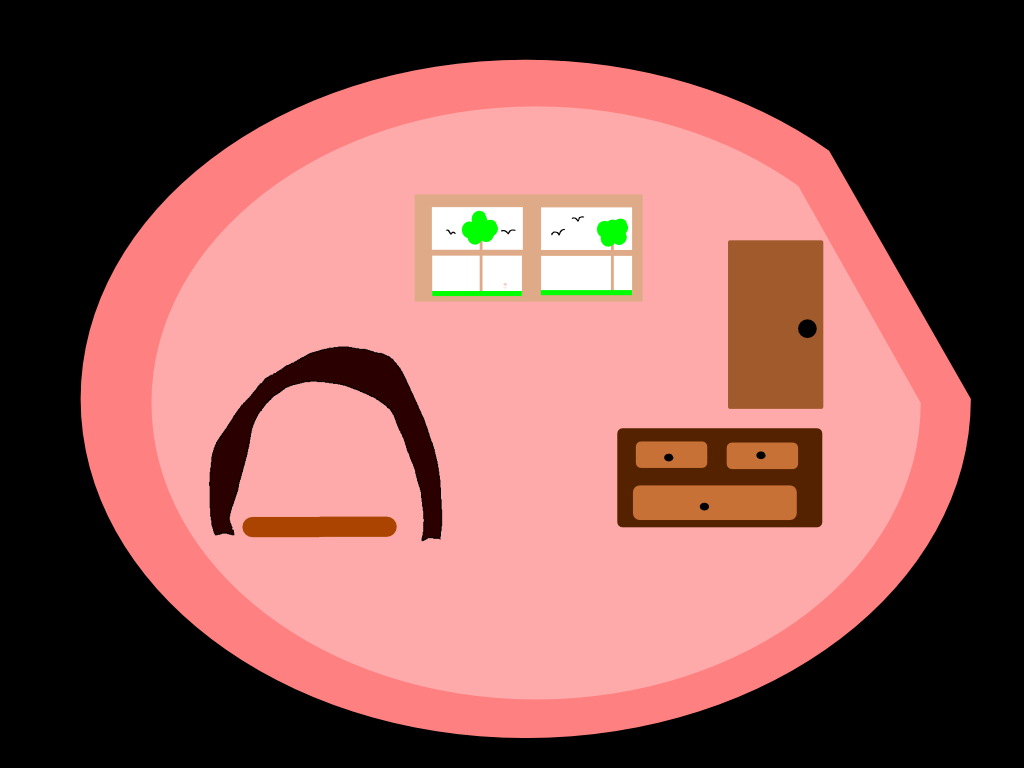
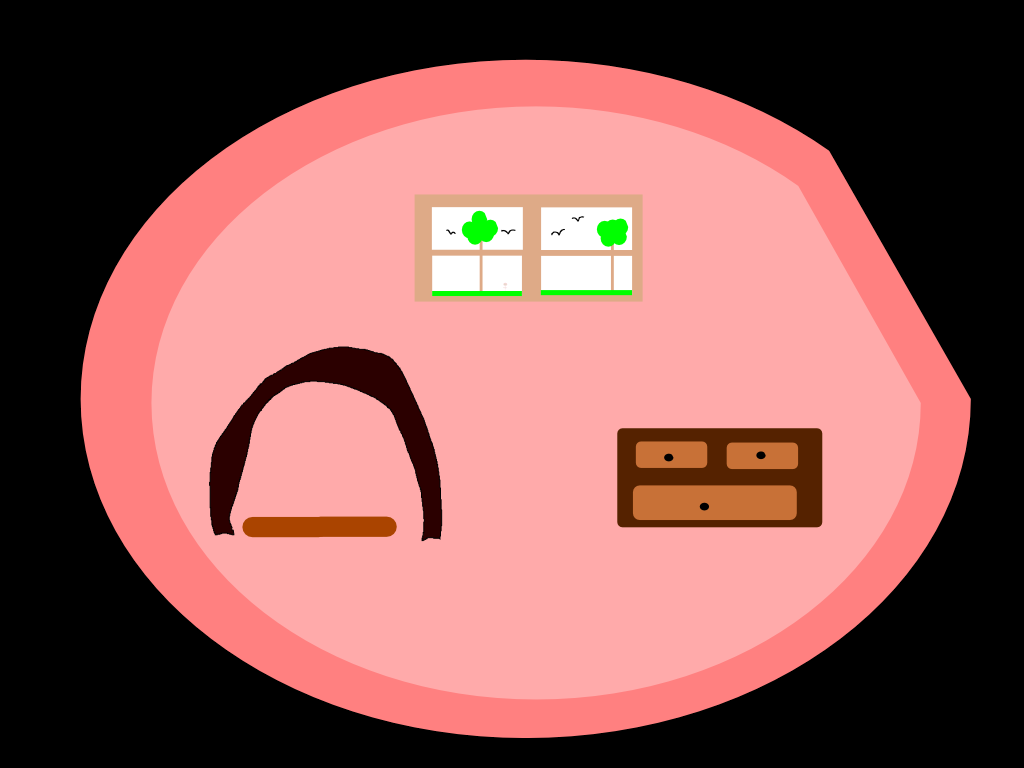
Fixed various things

Changed region(s): [[0.6875, 0.3125, 0.8125, 0.5312]]

diff --git a/core/src/ml/derek/ggj2015/collections/items/Door.java b/core/src/ml/derek/ggj2015/collections/items/Door.java
@@ -1,5 +1,6 @@
 package ml.derek.ggj2015.collections.items;
 
+import com.badlogic.gdx.Gdx;
 import com.badlogic.gdx.graphics.Texture;
 import com.badlogic.gdx.graphics.g2d.TextureRegion;
 import com.badlogic.gdx.utils.Array;
@@ -11,33 +12,38 @@ import ml.derek.ggj2015.logic.Room;
  * Copyright © 2015 Derek Sewell.
  * All rights reserved.
  */
-public class Key extends Item
+public class Door extends Item
 {
-	public Key()
+	private boolean open = false;
+
+	public Door()
 	{
-		super(new TextureRegion(new Texture("items/key.png")));
+		super(new TextureRegion(new Texture("items/door.png")));
 	}
 
 	@Override
 	public void onClick(Room room, Array<Item> inventory)
 	{
 		super.onClick(room, inventory);
-		room.getItems().remove(this);
-		//inventory.add(this);
-		room.carrying = this;
+		if(open)
+		{
+			room.finish();
+		}
 	}
 
 	@Override
 	public void onUse(Item item, Room room, Array<Item> inventory)
 	{
-
+		if(item instanceof Key)
+		{
+			//Open the door
+			Gdx.app.log("input", "attempted door use");
+			open = true;
+			setTexture(new TextureRegion(new Texture("items/door-open.png")));
+			item.destory(room, inventory);
+		}
 	}
 
-	public void onInventoryClick(Room room, Array<Item> inventory)
-	{
-		room.carrying = this;
-		inventory.removeValue(this, false);
-	}
 }
 
 

diff --git a/core/src/ml/derek/ggj2015/InputManager.java b/core/src/ml/derek/ggj2015/InputManager.java
@@ -31,6 +31,13 @@ public class InputManager
 		{
 			Vector2 mousePos = Utils.unproject(Gdx.input.getX(), Gdx.input.getY(), camera);
 
+			//Check to see if the user is placing an item back in the inventory
+			if(mousePos.x > 1024 && room.carrying != null)
+			{
+				inventory.add(room.carrying);
+				room.carrying = null;
+			}
+
 			//Go through items in the room
 			for(int x = room.getItems().size - 1; x >= 0; x--)
 			{
@@ -42,6 +49,11 @@ public class InputManager
 				{
 					Gdx.app.log("input", "Item clicked");
 					item.onClick(room, inventory);
+
+					if(room.carrying != null)
+					{
+						item.onUse(room.carrying, room, inventory);
+					}
 
 					//Can only click once per frame
 					return;
@@ -62,12 +74,7 @@ public class InputManager
 				}
 			}
 
-			//Check to see if the user is placing an item back in the inventory
-			if(mousePos.x > 1024 && room.carrying != null)
-			{
-				inventory.add(room.carrying);
-				room.carrying = null;
-			}
+
 		}
 	}
 }

diff --git a/core/src/ml/derek/ggj2015/collections/rooms/Womb.java b/core/src/ml/derek/ggj2015/collections/rooms/Womb.java
@@ -4,7 +4,9 @@ import com.badlogic.gdx.graphics.Texture;
 import com.badlogic.gdx.graphics.g2d.TextureRegion;
 import com.badlogic.gdx.math.Vector2;
 import ml.derek.ggj2015.RenderManager;
+import ml.derek.ggj2015.collections.items.Door;
 import ml.derek.ggj2015.collections.items.Fire;
+import ml.derek.ggj2015.collections.items.FireExtinguisher;
 import ml.derek.ggj2015.collections.items.Key;
 import ml.derek.ggj2015.logic.Room;
 
@@ -21,6 +23,8 @@ public class Womb extends Room
 		float y = RenderManager.HEIGHT - 521;
 		items.put(new Key(), new Vector2(251, y));
 		items.put(new Fire(), new Vector2(251, y));
+		items.put(new FireExtinguisher(), new Vector2(623, RenderManager.HEIGHT - 428));
+		items.put(new Door(), new Vector2(728, 408));
 
 	}
 }

diff --git a/core/src/ml/derek/ggj2015/collections/items/Fire.java b/core/src/ml/derek/ggj2015/collections/items/Fire.java
@@ -1,5 +1,6 @@
 package ml.derek.ggj2015.collections.items;
 
+import com.badlogic.gdx.Gdx;
 import com.badlogic.gdx.graphics.Texture;
 import com.badlogic.gdx.graphics.g2d.TextureRegion;
 import com.badlogic.gdx.utils.Array;
@@ -19,10 +20,13 @@ public class Fire extends Item
 	}
 
 	@Override
-	public void onClick(Room room, Array<Item> inventory)
+	public void onUse(Item item, Room room, Array<Item> inventory)
 	{
-		super.onClick(room, inventory);
-		destory(room, inventory);
+		if(item instanceof FireExtinguisher)
+		{
+			//item.destory(room, inventory);
+			destory(room, inventory);
+		}
 	}
 }
 

diff --git a/core/src/ml/derek/ggj2015/logic/Room.java b/core/src/ml/derek/ggj2015/logic/Room.java
@@ -24,10 +24,13 @@ public class Room
 	//The item we are carrying
 	public Item carrying;
 
+	private boolean finished;
+
 	public Room(TextureRegion background)
 	{
 		this.background = background;
 		items = new OrderedMap<Item, Vector2>();
+		finished = false;
 	}
 
 	/** Adds an item to the room **/
@@ -44,5 +47,15 @@ public class Room
 	public OrderedMap<Item,Vector2> getItems()
 	{
 		return items;
+	}
+
+	public boolean isFinished()
+	{
+		return finished;
+	}
+
+	public void finish()
+	{
+		finished = true;
 	}
 }

diff --git a/core/src/ml/derek/ggj2015/logic/Item.java b/core/src/ml/derek/ggj2015/logic/Item.java
@@ -51,7 +51,6 @@ public class Item
 
 	public void onUse(Item item, Room room, Array<Item> inventory) {}
 
-
 	public TextureRegion getTexture()
 	{
 		return texture;
@@ -64,9 +63,15 @@ public class Item
 
 	public void destory(Room room, Array<Item> inventory)
 	{
+		room.carrying = null;
 		room.getItems().remove(this);
 		inventory.removeValue(this, false);
 		this.texture.getTexture().dispose();
 		this.texture = null;
+	}
+
+	public void setTexture(TextureRegion region)
+	{
+		this.texture = region;
 	}
 }

diff --git a/core/src/ml/derek/ggj2015/collections/items/FireExtinguisher.java b/core/src/ml/derek/ggj2015/collections/items/FireExtinguisher.java
@@ -11,11 +11,11 @@ import ml.derek.ggj2015.logic.Room;
  * Copyright © 2015 Derek Sewell.
  * All rights reserved.
  */
-public class Key extends Item
+public class FireExtinguisher extends Item
 {
-	public Key()
+	public FireExtinguisher()
 	{
-		super(new TextureRegion(new Texture("items/key.png")));
+		super(new TextureRegion(new Texture("items/fire-extinguisher.png")));
 	}
 
 	@Override
